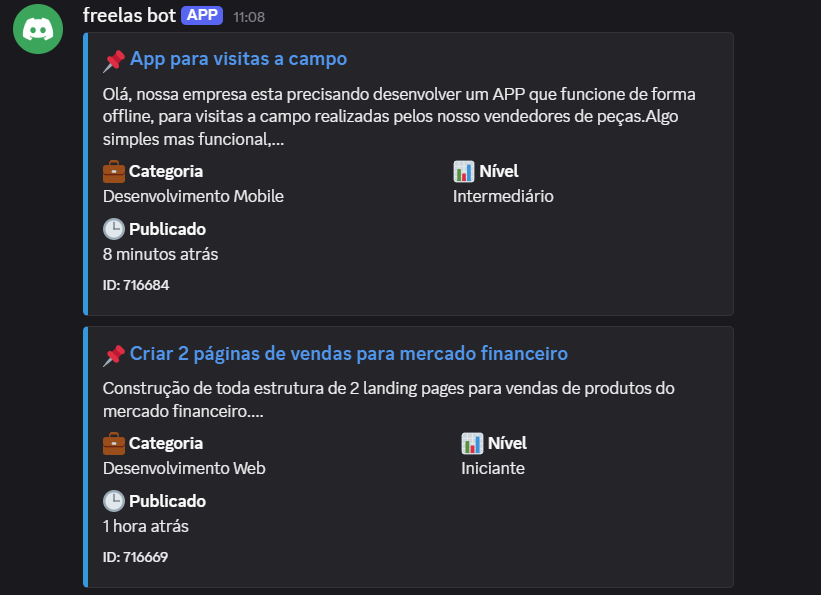
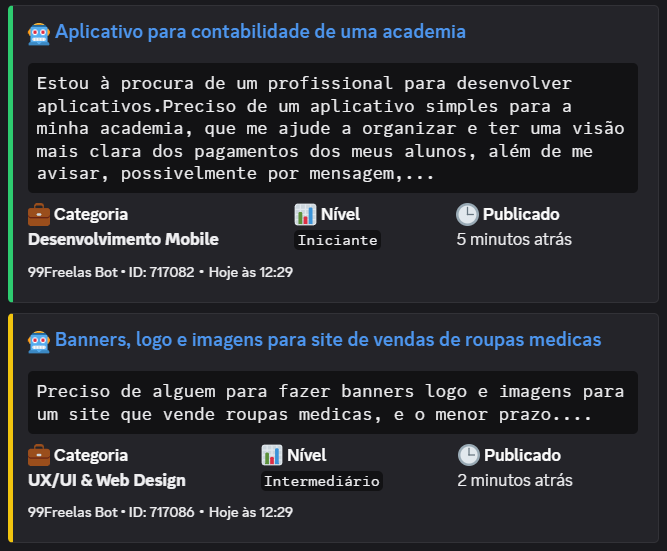
feat: implementar auto-delete, embeds coloridos e comando de limpeza

diff --git a/src/bot/bot_discord.py b/src/bot/bot_discord.py
@@ -3,58 +3,83 @@ import os
 from dotenv import load_dotenv
 import asyncio
 from collections import deque
+from discord.ext import commands 
 
 load_dotenv()
 
 TOKEN = os.getenv("DISCORD_TOKEN")
 CHANNEL_ID = int(os.getenv("DISCORD_CHANNEL_ID"))
+TEMPO_EXPIRACAO = 85800  
+
 
 intents = discord.Intents.default()
-client = discord.Client(intents=intents)
+intents.message_content = True 
+bot = commands.Bot(command_prefix="!", intents=intents)
 
-bot_loop = None
 queue = deque()
 
-@client.event
+@bot.event
 async def on_ready():
-    global bot_loop
-    bot_loop = asyncio.get_running_loop()
-    print(f"🤖 Bot conectado como {client.user}")
-    client.loop.create_task(process_queue())
+    print(f"🤖 Bot conectado como {bot.user}")
+    
+    bot.loop.create_task(process_queue())
+
+
+@bot.command(name="limpar")
+async def limpar(ctx, quantidade: int = 100):
+    
+    if ctx.channel.id == CHANNEL_ID:
+        deleted = await ctx.channel.purge(limit=quantidade)
+       
+        confirmacao = await ctx.send(f"🧹 Faxina concluída! {len(deleted)} mensagens removidas.")
+        await asyncio.sleep(5)
+        await confirmacao.delete()
 
 async def process_queue():
-    await client.wait_until_ready()
-    channel = client.get_channel(CHANNEL_ID)
+    await bot.wait_until_ready()
     
     while True:
         if queue:
-            dados = queue.popleft()
-            
-           
-            embed = discord.Embed(
-                title=f"📌 {dados.get('titulo', 'Sem título')}",
-                url=dados.get('link'),
-                description=f"{dados.get('descriçao', '')[:300]}...",
-                color=discord.Color.blue()
-            )
-            
-            embed.add_field(name="💼 Categoria", value=dados.get('categoria', 'N/A'), inline=True)
-            embed.add_field(name="📊 Nível", value=dados.get('nivel', 'N/A'), inline=True)
-            embed.add_field(name="🕒 Publicado", value=dados.get('publicado', 'N/A'), inline=False)
-            embed.set_footer(text=f"ID: {dados.get('ID')}")
-            
-            try:
-                await channel.send(embed=embed)
-            except Exception as e:
-                print(f"Erro ao enviar embed: {e}")
+            channel = bot.get_channel(CHANNEL_ID)
+            if channel:
+                dados = queue.popleft()
                 
-            await asyncio.sleep(2)
+                cor_vaga = discord.Color.blue() 
+                nivel = dados.get('nivel', '').lower()
+
+                if 'iniciante' in nivel:
+                    cor_vaga = discord.Color.green()
+                elif 'intermediário' in nivel or 'intermediario' in nivel:
+                    cor_vaga = discord.Color.gold() 
+                elif 'especialista' in nivel:
+                    cor_vaga = discord.Color.red()
+
+               
+                embed = discord.Embed(
+                    title=f"🤖 {dados.get('titulo', 'Sem título')}",
+                    url=dados.get('link'),
+                    description=f"```text\n{dados.get('descriçao', '')[:250]}...```",
+                    color=cor_vaga,
+                    timestamp=discord.utils.utcnow()
+                )
+                
+                embed.add_field(name="💼 Categoria", value=f"**{dados.get('categoria', 'N/A')}**", inline=True)
+                embed.add_field(name="📊 Nível", value=f"`{dados.get('nivel', 'N/A')}`", inline=True)
+                embed.add_field(name="🕒 Publicado", value=dados.get('publicado', 'N/A'), inline=True)
+                embed.set_footer(text=f"99Freelas Bot • ID: {dados.get('ID')}")
+                
+                try:
+                   
+                    await channel.send(embed=embed, delete_after=TEMPO_EXPIRACAO)
+                except Exception as e:
+                    print(f"Erro ao enviar embed: {e}")
+                
+                await asyncio.sleep(2)
         else:
             await asyncio.sleep(1)
 
 def send_message(project_dict):
-   
     queue.append(project_dict)
 
 def start_bot():
-    client.run(TOKEN)
+    bot.run(TOKEN)

diff --git a/src/scrapers/html_parser.py b/src/scrapers/html_parser.py
@@ -38,7 +38,8 @@ def get_html_parser(all_projects):
     lista_projetos = []
     
     for project in all_projects:
-        # Inicializa com N/A para garantir que o dicionário sempre tenha as chaves
+        
+        
         dados = {
             'categoria': "N/A",
             'nivel': "N/A",
@@ -50,23 +51,22 @@ def get_html_parser(all_projects):
         }
 
         try:
-            # 1. Extrair ID diretamente do atributo data-id (muito mais seguro)
+            
+            
             dados['ID'] = project.get('data-id', "N/A")
-
-            # 2. Extrair Informações (Categoria, Nível, Publicado)
+                 
             tags_info = project.find('p', class_='information')
             if tags_info:
-                # O separator "|" ajuda a dividir as strings sem perder o contexto
+                
                 partes = [p.strip() for p in tags_info.get_text(separator="|").split('|') if p.strip()]
                 if len(partes) >= 1: dados['categoria'] = partes[0]
                 if len(partes) >= 2: dados['nivel'] = partes[1]
                 
-                # O tempo publicado geralmente está dentro de um <b> com classe datetime
+                
                 tempo_tag = tags_info.find('b', class_='datetime')
                 if tempo_tag:
                     dados['publicado'] = tempo_tag.get_text(strip=True)
 
-            # 3. Título e Link
             title_tag = project.find('h1', class_='title')
             if title_tag:
                 a_tag = title_tag.find('a')
@@ -75,10 +75,10 @@ def get_html_parser(all_projects):
                     link_relativo = a_tag.get('href', '')
                     dados['link'] = f"https://www.99freelas.com.br{link_relativo}"
 
-            # 4. Descrição (usando find direto na classe específica)
+           
             desc_tag = project.find('div', class_='description')
             if desc_tag:
-                # Removemos o texto de "Expandir" se houver
+    
                 dados['descriçao'] = desc_tag.get_text(strip=True).replace('… Expandir', '')
 
         except Exception as e:

diff --git a/src/database/database.py b/src/database/database.py
@@ -35,7 +35,7 @@ def create_db():
 def save_to_db(list_projects):
     conn = sqlite3.connect(DB_FILE)
     cursor = conn.cursor()
-
+    valid = []
     for project in list_projects:
         
         cursor.execute(f'''
@@ -45,10 +45,13 @@ def save_to_db(list_projects):
             (project['ID'], project['categoria'], project['publicado'], 
              project['nivel'], project['titulo'], project['descriçao'], project['link'])
         )
+        cursor.execute(f"SELECT {project['ID']} FROM {NAME_TABLE}")
+        valid.append(cursor.fetchone())
     
     conn.commit()
     conn.close()
-    print(f"Processo finalizado: {len(list_projects)} projetos processados.")
+    print(f"Processo finalizado: {len(valid)} novos projetos processados.")
+    valid.clear()
 
 
 def read_data():

diff --git a/src/scrapers/browser.py b/src/scrapers/browser.py
@@ -22,7 +22,7 @@ def get_html_browser():
         chrome_options.add_experimental_option("prefs", prefs)
         service = Service(ChromeDriverManager().install())
         driver = webdriver.Chrome(service=service, options= chrome_options)
-        driver.get("https://www.99freelas.com.br/projects?categoria=web-mobile-e-software&data-da-publicacao=menos-de-24-horas-atras")
+        driver.get("https://www.99freelas.com.br/projects?order=mais-recentes&categoria=web-mobile-e-software")
         
         results_list = driver.find_element(By.CLASS_NAME, "result-list")
         time.sleep(2)
